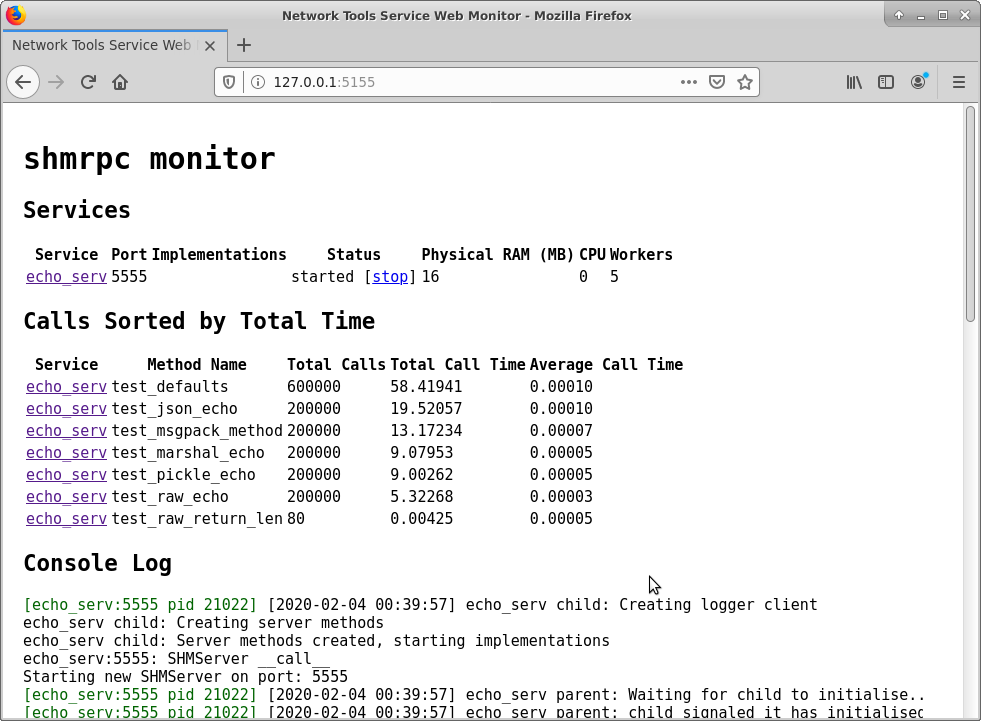
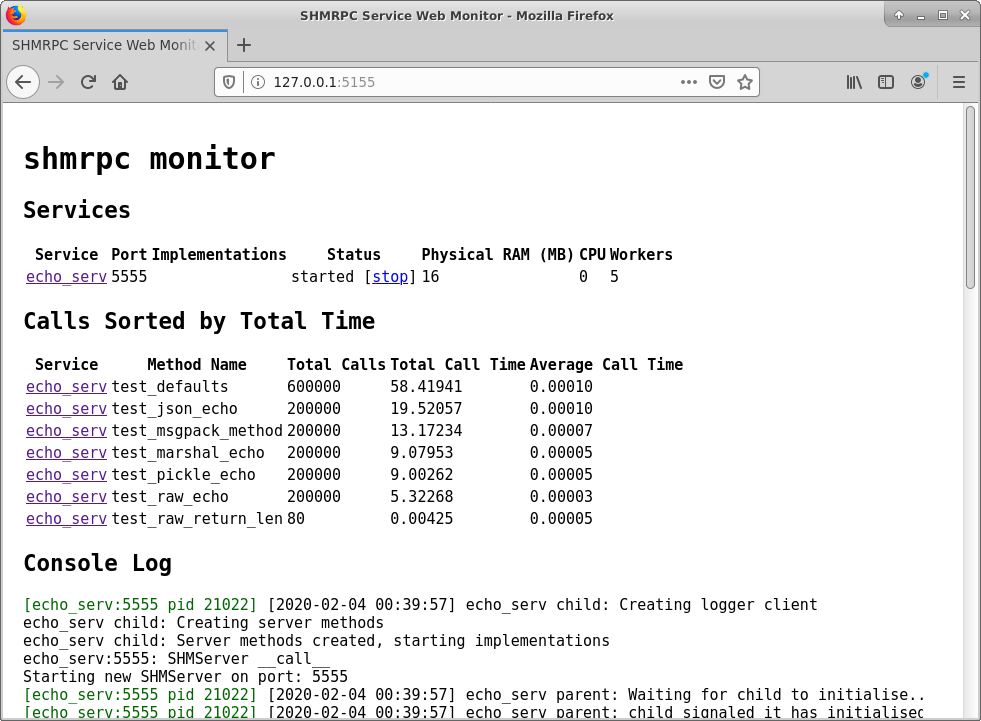
updated web interface screenshot and added notes about multi-cpu concurrency

diff --git a/shmrpc/web_monitor/templates/index.html b/shmrpc/web_monitor/templates/index.html
@@ -2,7 +2,7 @@
 <!DOCTYPE html>
 <html>
 <head>
-    <title>Network Tools Service Web Monitor</title>
+    <title>SHMRPC Service Web Monitor</title>
 
     <script src="/static/chart.min.js"></script>
     <script src="/static/AjaxRequest.js"></script>

diff --git a/README.rst b/README.rst
@@ -26,11 +26,14 @@ Other capabilities:
 * A management web interface based on flask, showing logs/performance data for each
   service, and allowing stopping/starting services individually.
 
-    .. image:: docs/web_index_screenshot.png
+  .. image:: docs/web_index_screenshot.png
 
 * Multiple servers can serve to multiple clients: additional server worker processes
   can optionally start when overall CPU usage exceeds a certain %. This helps to work
-  around the often-cited GIL_ limitations of python.
+  around the often-cited GIL_ limitations of python. (Note: currently, only a single
+  connection to a service can be made for each client process, but I plan to remove
+  this limitation soon.)
+
 * Not much boilerplate code required, with the server only requiring an encoding type
   decorator, like ``@json_method``. Clients verify all their method names match with
   the server's. They copy the port/name from the server, so as to reduce the amount of
@@ -229,11 +232,14 @@ Reference
     # If you don't, a NetworkServer will not be created.
     tcp_bind=127.0.0.1
 
-    # The maximum number of worker processes
-    # Defaults to the number of CPU cores
-    max_proc_num=X
+    # The maximum number of worker processes. Defaults to the
+    # number of CPU cores when not specified.
+    # Some services which need exclusive access to a resource,
+    # e.g. write access to a SQLite database may need this to
+    # be set to 1 only.
+    max_proc_num=1
     # The minumum number of workers. Defaults to 1
-    min_proc_num=X
+    min_proc_num=1
     # Whether to wait for the service to boot before moving on to the next
     # entry: each entry is executed in sequential order if True
     wait_until_completed=True
